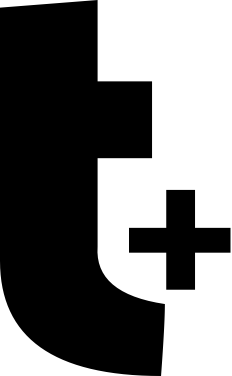
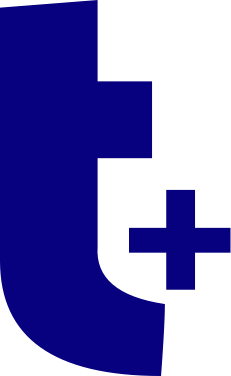
Fixed overlay lisibility

diff --git a/assets/js/overlayNoe.js b/assets/js/overlayNoe.js
@@ -131,15 +131,24 @@ function getRandomFromPalette() {
 }
 
 const overlay = () => {
-  textSize(26);
+  // Consts
+  let overlayOpacity = 30;
+  if(stopData.traffic > 5000000 && stopData.connection.length > 1) overlayOpacity = 150;
+  console.log(overlayOpacity);
+  
+
+  // Text
+  textSize(20);
   textFont(font); 
   textFont('ParisineOfficeStd-Bold'); 
   textStyle(BOLD); 
   textAlign(LEFT, BOTTOM);
-  fill(0)
-  blendMode(OVERLAY)
   // Stop name
+  fill(7, 1, 99)
+  blendMode(OVERLAY)
   text(stopData.name, 25, height-25);
+  blendMode(NORMAL)
+  fill(7, 1, 99, overlayOpacity)
   text(stopData.name, 25, height-25);
   
   // Number
@@ -147,15 +156,21 @@ const overlay = () => {
   textAlign(LEFT, TOP);
   textSize(40);
   rotate(90);
+  fill(7, 1, 99)
+  blendMode(OVERLAY)
   text(number, 25, 25-width);
+  blendMode(NORMAL)
+  fill(7, 1, 99, overlayOpacity)
   text(number, 25, 25-width);
   rotate(-90)
   
   //Image
   loadImage('assets/img/t-img.png', (tImg) => {
-    tint(50, 50, 50)
+    blendMode(OVERLAY)
+    tint(255, overlayOpacity)
     image(tImg, 25, 25, 56, 90);
-    tint(0, 0, 0, 80)
+    blendMode(NORMAL)
+    tint(255, overlayOpacity)
     image(tImg, 25, 25, 56, 90);
   })
   
